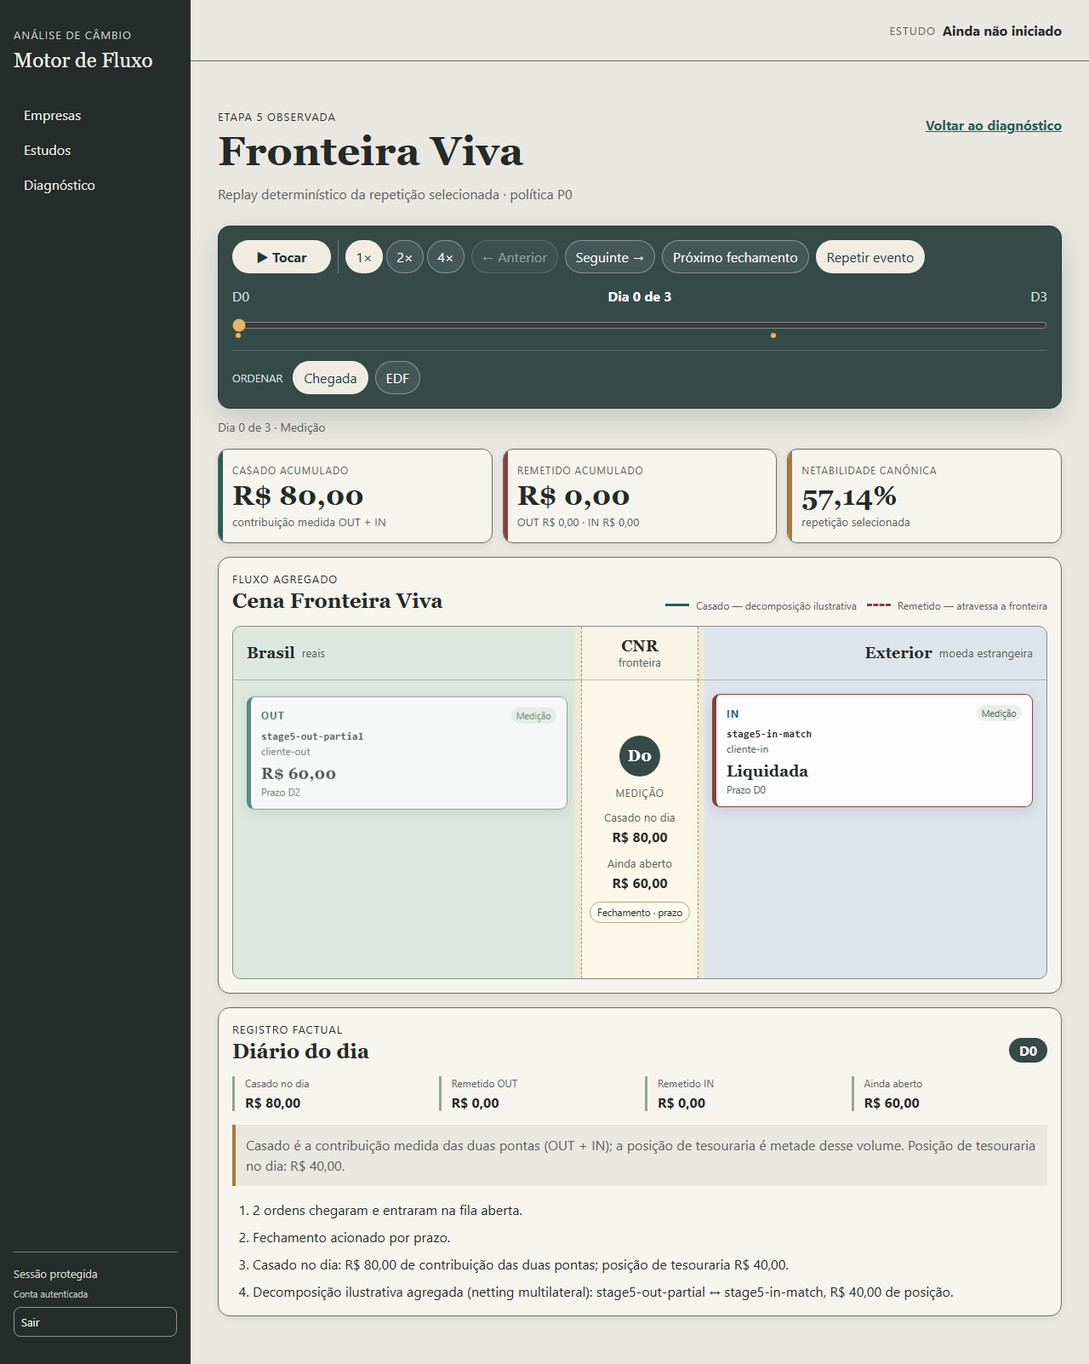
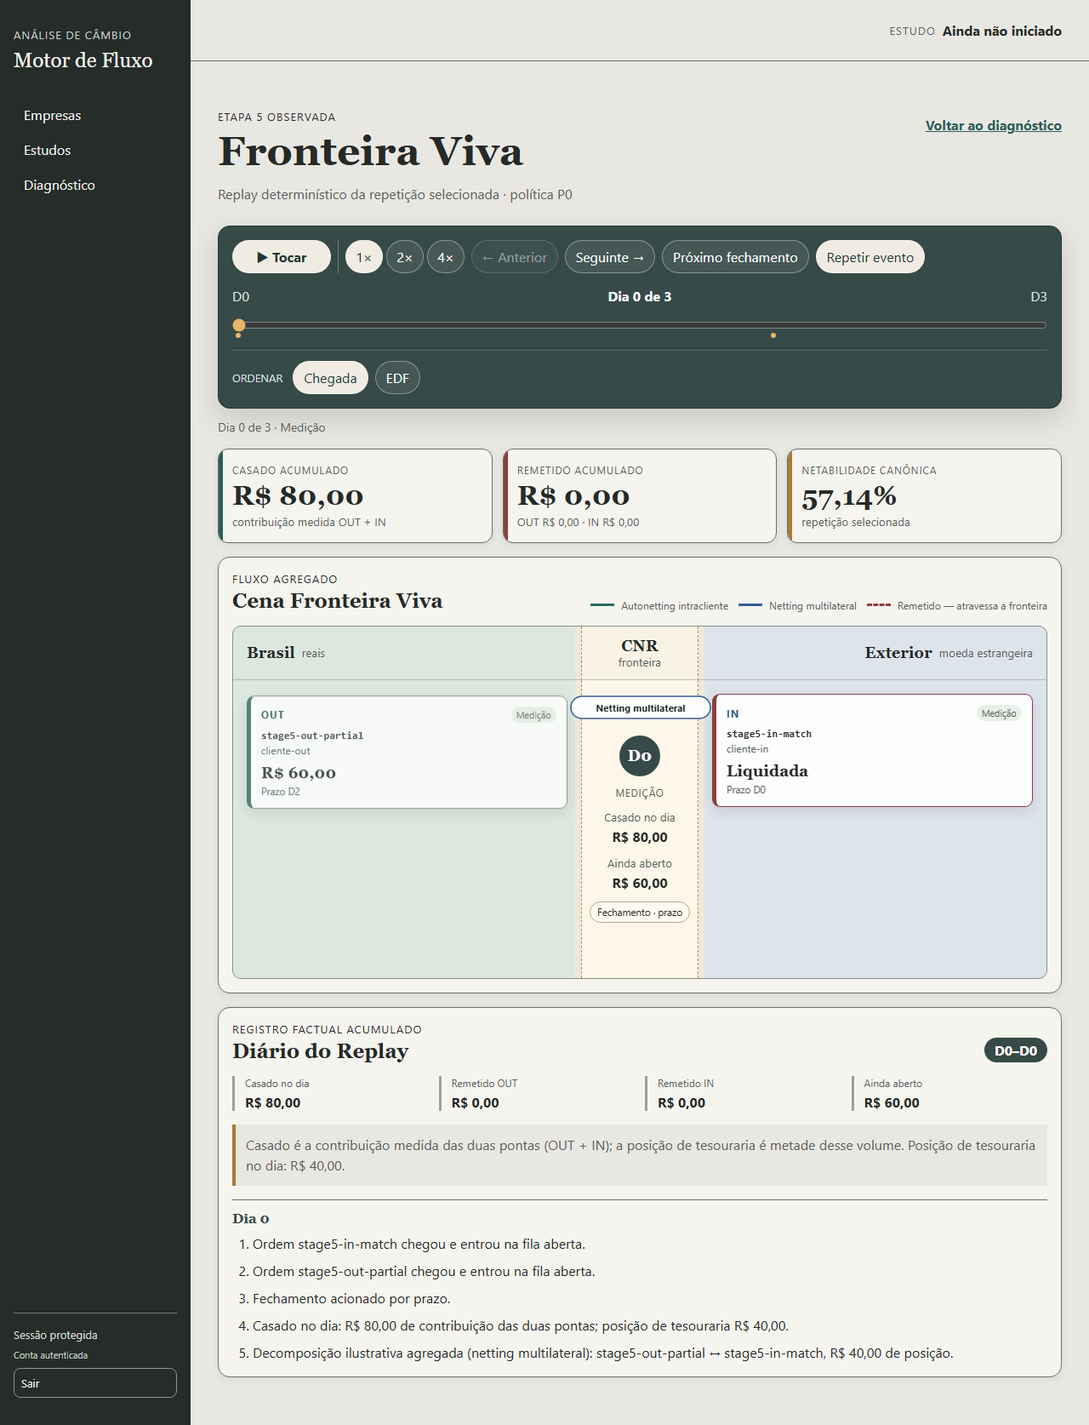
fix: melhora leitura e ritmo do replay (MOT-89)

diff --git a/web/src/styles/global.css b/web/src/styles/global.css
@@ -231,6 +231,8 @@ a { color: inherit; }
 .replay-legend { display: flex; flex-wrap: wrap; gap: var(--space-3); justify-content: flex-end; }
 .replay-legend span { align-items: center; color: var(--muted); display: flex; font-size: 0.75rem; gap: var(--space-2); }
 .legend-line { border-top: 3px solid var(--accent); display: inline-block; width: 28px; }
+.legend-line--intra { border-color: #267064; }
+.legend-line--inter { border-color: #365f91; }
 .legend-line--remitted { border-color: #8b403c; border-top-style: dashed; }
 .replay-stage { background: linear-gradient(90deg, #dce8df 0 42%, #efe8d9 42% 58%, #dee4eb 58% 100%); border: 1px solid #85908b; border-radius: 10px; display: grid; gap: 0; grid-template-areas: 'brasil cnr exterior' 'out frontier in'; grid-template-columns: minmax(0, 1fr) minmax(120px, 0.34fr) minmax(0, 1fr); grid-template-rows: auto minmax(350px, auto); margin-top: var(--space-4); min-width: 0; overflow: hidden; position: relative; }
 .replay-territory { align-items: center; border-bottom: 1px solid rgb(37 42 40 / 25%); display: flex; gap: var(--space-2); min-width: 0; padding: var(--space-3) var(--space-4); }
@@ -264,18 +266,29 @@ a { color: inherit; }
 .replay-stage--animating .replay-order:not(.replay-order--departing) { animation: replay-card-arrive 320ms ease both; }
 .replay-order--departing { animation: replay-card-depart 900ms ease 350ms both; border-color: #8b403c; }
 .replay-connections { height: 100%; inset: 0; overflow: visible; pointer-events: none; position: absolute; width: 100%; z-index: 4; }
+.replay-connection-labels { height: 100%; inset: 0; overflow: visible; pointer-events: none; position: absolute; width: 100%; z-index: 6; }
 .replay-connection { fill: none; stroke-linecap: round; stroke-width: 4; }
-.replay-connection--matched { animation: replay-line-draw 750ms ease 260ms both; marker-end: url(#replay-arrow-matched); stroke: #267064; stroke-dasharray: 12 7; }
+.replay-connection--matched { animation: replay-line-draw 750ms ease 260ms both; stroke-dasharray: 12 7; }
+.replay-connection--intra-client { stroke: #267064; }
+.replay-connection--inter-client { stroke: #365f91; }
 .replay-connection--remitted { animation: replay-line-draw 750ms ease 600ms both; marker-end: url(#replay-arrow-remitted); stroke: #8b403c; stroke-dasharray: 8 7; }
-.replay-connections #replay-arrow-matched path { fill: #267064; }
+.replay-connections #replay-arrow-intra path { fill: #267064; }
+.replay-connections #replay-arrow-inter path { fill: #365f91; }
 .replay-connections #replay-arrow-remitted path { fill: #8b403c; }
+.replay-connection-label rect { fill: rgb(255 255 255 / 94%); stroke-width: 1.5; }
+.replay-connection-label text { fill: #1d2927; font-size: 11px; font-weight: 750; letter-spacing: 0.01em; }
+.replay-connection-label--intra rect { stroke: #267064; }
+.replay-connection-label--inter rect { stroke: #365f91; }
 .replay-journal__heading > span { background: #364a48; border-radius: 999px; color: white; font-weight: 700; padding: var(--space-1) var(--space-3); }
 .replay-day-values { display: grid; gap: var(--space-3); grid-template-columns: repeat(4, minmax(0, 1fr)); margin: var(--space-4) 0 0; }
 .replay-day-values > div { border-left: 3px solid #97a29d; padding-left: var(--space-3); }
 .replay-day-values dt { color: var(--muted); font-size: 0.75rem; }
 .replay-day-values dd { font-variant-numeric: tabular-nums; font-weight: 750; margin: var(--space-1) 0 0; overflow-wrap: anywhere; }
 .replay-journal__definition { background: var(--canvas); border-left: 4px solid #aa7b34; color: var(--muted); line-height: 1.5; padding: var(--space-3); }
-.replay-journal ol { display: grid; gap: var(--space-2); line-height: 1.5; margin-bottom: 0; padding-left: var(--space-6); }
+.replay-journal__history { display: grid; gap: var(--space-4); }
+.replay-journal__day { border-top: 1px solid var(--border); padding-top: var(--space-3); }
+.replay-journal__day h3 { color: #364a48; font-family: var(--font-heading); font-size: 1rem; margin: 0 0 var(--space-2); }
+.replay-journal ol { display: grid; gap: var(--space-2); line-height: 1.5; margin: 0; padding-left: var(--space-6); }
 .replay-error { max-width: 760px; }
 .replay-error-actions { display: flex; flex-wrap: wrap; gap: var(--space-3); margin-top: var(--space-4); }
 @keyframes replay-card-arrive { from { opacity: 0; transform: translateY(12px); } to { opacity: 1; transform: none; } }

diff --git a/web/src/replay/components/ReplayConnections.tsx b/web/src/replay/components/ReplayConnections.tsx
@@ -3,7 +3,19 @@ import { useCallback, useLayoutEffect, useState, type RefObject } from 'react';
 import type { ReplayDocument } from '../domain';
 import { anchoredCurve, remittanceCurve, type AnchoredCurve, type Box } from '../geometry';
 
-type Path = Readonly<{ id: string; curve: AnchoredCurve; kind: 'MATCHED' | 'REMITTED'; direction?: 'OUT' | 'IN' }>;
+type MatchingOrigin = 'INTRA_CLIENTE' | 'INTER_CLIENTE';
+type Path = Readonly<{
+  id: string;
+  curve: AnchoredCurve;
+  kind: 'MATCHED' | 'REMITTED';
+  direction?: 'OUT' | 'IN';
+  matchingOrigin?: MatchingOrigin;
+}>;
+
+const originLabels: Record<MatchingOrigin, string> = {
+  INTRA_CLIENTE: 'Autonetting intracliente',
+  INTER_CLIENTE: 'Netting multilateral',
+};
 
 function box(rect: DOMRect): Box {
   return { left: rect.left, top: rect.top, width: rect.width, height: rect.height };
@@ -38,6 +50,7 @@ export function ReplayConnections({ stageRef, document, day, active, transitionK
         id: `matched-${index}-${segment.out_order_id}-${segment.in_order_id}`,
         curve: anchoredCurve(stageBox, out, incoming),
         kind: 'MATCHED',
+        matchingOrigin: segment.matching_origin,
       });
     }
     for (const event of replayDay.events) {
@@ -64,16 +77,41 @@ export function ReplayConnections({ stageRef, document, day, active, transitionK
   }, [measure, stageRef, transitionKey]);
 
   if (!active || paths.length === 0) return null;
-  return <svg className="replay-connections" aria-hidden="true" focusable="false">
+  return <>
+    <svg className="replay-connections" aria-hidden="true" focusable="false">
     <defs>
-      <marker id="replay-arrow-matched" markerWidth="8" markerHeight="8" refX="6" refY="4" orient="auto"><path d="M 0 0 L 8 4 L 0 8 z" /></marker>
+      <marker id="replay-arrow-intra" markerWidth="8" markerHeight="8" refX="6" refY="4" orient="auto"><path d="M 0 0 L 8 4 L 0 8 z" /></marker>
+      <marker id="replay-arrow-inter" markerWidth="8" markerHeight="8" refX="6" refY="4" orient="auto"><path d="M 0 0 L 8 4 L 0 8 z" /></marker>
       <marker id="replay-arrow-remitted" markerWidth="8" markerHeight="8" refX="6" refY="4" orient="auto"><path d="M 0 0 L 8 4 L 0 8 z" /></marker>
     </defs>
-    {paths.map((path) => <path
-      key={`${transitionKey}-${path.id}`}
-      d={path.curve.path}
-      className={`replay-connection replay-connection--${path.kind.toLowerCase()}${path.direction === undefined ? '' : ` replay-connection--${path.direction.toLowerCase()}`}`}
-      markerEnd={`url(#replay-arrow-${path.kind.toLowerCase()})`}
-    />)}
-  </svg>;
+    {paths.map((path) => {
+      const originClass = path.matchingOrigin === 'INTRA_CLIENTE'
+        ? ' replay-connection--intra-client'
+        : path.matchingOrigin === 'INTER_CLIENTE' ? ' replay-connection--inter-client' : '';
+      const marker = path.kind === 'REMITTED'
+        ? 'replay-arrow-remitted'
+        : path.matchingOrigin === 'INTRA_CLIENTE' ? 'replay-arrow-intra' : 'replay-arrow-inter';
+      return <path
+        key={`${transitionKey}-${path.id}`}
+        d={path.curve.path}
+        className={`replay-connection replay-connection--${path.kind.toLowerCase()}${originClass}${path.direction === undefined ? '' : ` replay-connection--${path.direction.toLowerCase()}`}`}
+        markerEnd={`url(#${marker})`}
+      />;
+    })}
+    </svg>
+    <svg className="replay-connection-labels" aria-hidden="true" focusable="false">
+    {paths.map((path) => {
+      if (path.matchingOrigin === undefined) return null;
+      const midpoint = {
+        x: Math.round((path.curve.start.x + path.curve.end.x) / 2),
+        // Mantém a identificação ligada à seta, mas fora do medalhão central da CNR.
+        y: Math.round((path.curve.start.y + path.curve.end.y) / 2) - 58,
+      };
+      return <g key={`${transitionKey}-label-${path.id}`} className={`replay-connection-label replay-connection-label--${path.matchingOrigin === 'INTRA_CLIENTE' ? 'intra' : 'inter'}`} transform={`translate(${midpoint.x} ${midpoint.y})`}>
+        <rect x="-82" y="-13" width="164" height="26" rx="13" />
+        <text textAnchor="middle" dominantBaseline="central">{originLabels[path.matchingOrigin]}</text>
+      </g>;
+    })}
+    </svg>
+  </>;
 }

diff --git a/web/src/replay/components/ReplayStage.test.tsx b/web/src/replay/components/ReplayStage.test.tsx
@@ -30,16 +30,19 @@ describe('cena Fronteira Viva', () => {
     expect(screen.queryByRole('article', { name: /IN in-1/i })).not.toBeInTheDocument();
   });
 
-  it('mantém o diário reconciliado com os valores visíveis do dia', () => {
-    const document = replayDocumentFixture();
-    render(<ReplayJournal document={document} day={0} />);
+  it('mantém diário cumulativo por dia sem registrar dias futuros ou vazios', () => {
+    const document = replayDocumentWithBothRemittancesFixture();
+    render(<ReplayJournal document={document} day={2} />);
 
-    expect(screen.getByRole('heading', { name: 'Diário do dia' })).toBeInTheDocument();
-    expect(screen.getByText(/Casado no dia.*R\$ 80,00/i)).toBeInTheDocument();
-    expect(screen.getAllByText(/posição de tesouraria.*R\$ 40,00/i)).toHaveLength(2);
+    expect(screen.getByRole('heading', { name: 'Diário do Replay' })).toBeInTheDocument();
+    expect(screen.getByRole('heading', { name: 'Dia 0' })).toBeInTheDocument();
+    expect(screen.getByRole('heading', { name: 'Dia 2' })).toBeInTheDocument();
+    expect(screen.queryByRole('heading', { name: 'Dia 1' })).not.toBeInTheDocument();
+    expect(screen.getByText(/Ordem out-1 chegou/i)).toBeInTheDocument();
+    expect(screen.getByText(/ordem in-2.*remetida IN/i)).toBeInTheDocument();
   });
 
-  it('retira cartão liquidado e camada de conexões no mesmo fim de evento', () => {
+  it('mantém cartões liquidados e conexões visíveis por 2,6 segundos', () => {
     vi.useFakeTimers();
     const document = replayDocumentWithBothRemittancesFixture();
     const { container } = render(<ReplayStage
@@ -54,7 +57,33 @@ describe('cena Fronteira Viva', () => {
     expect(screen.getByRole('article', { name: /IN in-2/i })).toHaveTextContent('Liquidada');
     expect(container.querySelector('.replay-connections')).toBeInTheDocument();
     act(() => vi.advanceTimersByTime(1_300));
+    expect(screen.getByRole('article', { name: /OUT out-1/i })).toBeInTheDocument();
+    expect(container.querySelector('.replay-connections')).toBeInTheDocument();
+    act(() => vi.advanceTimersByTime(1_300));
     expect(screen.queryByRole('article', { name: /OUT out-1/i })).not.toBeInTheDocument();
     expect(container.querySelector('.replay-connections')).not.toBeInTheDocument();
+  });
+
+  it('rotula cada seta casada como autonetting ou netting multilateral', () => {
+    const document = replayDocumentFixture();
+    document.days[0]!.closing!.flow_segments = [
+      {
+        ...document.days[0]!.closing!.flow_segments[0]!,
+        value_brl: '10', matching_origin: 'INTRA_CLIENTE',
+      },
+      document.days[0]!.closing!.flow_segments[0]!,
+    ];
+    const { container } = render(<ReplayStage
+      document={document}
+      state={replayStateAt(document, 0)}
+      sort="ARRIVAL"
+      transitionMode="ANIMATE"
+      transitionKey={1}
+    />);
+
+    const labels = [...container.querySelectorAll('.replay-connection-label')].map((item) => item.textContent);
+    expect(labels).toEqual(['Autonetting intracliente', 'Netting multilateral']);
+    expect(container.querySelector('.replay-connection--intra-client')).toBeInTheDocument();
+    expect(container.querySelector('.replay-connection--inter-client')).toBeInTheDocument();
   });
 });

diff --git a/web/src/replay/presentation.ts b/web/src/replay/presentation.ts
@@ -17,6 +17,11 @@ export type ReplayDayPresentation = Readonly<{
   journal: readonly string[];
 }>;
 
+export type ReplayJournalDay = Readonly<{
+  day: number;
+  entries: readonly string[];
+}>;
+
 const triggerLabels = { WINDOW: 'janela', DEADLINE: 'prazo', HORIZON_END: 'fim do horizonte' } as const;
 
 function amount(value: Decimal): string {
@@ -34,7 +39,7 @@ export function presentReplayDay(document: ReplayDocument, day: number): ReplayD
   const openBrl = amount(new Decimal(replayDay.end_state.open_out_brl).plus(replayDay.end_state.open_in_brl));
   const journal: string[] = [];
   const arrivals = replayDay.events.filter((event) => event.kind === 'ORDER_ARRIVED');
-  if (arrivals.length > 0) journal.push(`${arrivals.length} ${arrivals.length === 1 ? 'ordem chegou e entrou' : 'ordens chegaram e entraram'} na fila aberta.`);
+  for (const arrival of arrivals) journal.push(`Ordem ${arrival.order_id} chegou e entrou na fila aberta.`);
   if (closing !== null) {
     journal.push(`Fechamento acionado por ${closing.triggers.map((trigger) => triggerLabels[trigger]).join(' + ')}.`);
     if (!new Decimal(matchedContributionBrl).isZero()) {
@@ -44,8 +49,11 @@ export function presentReplayDay(document: ReplayDocument, day: number): ReplayD
         journal.push(`Decomposição ilustrativa agregada (${phase}): ${segment.out_order_id} ↔ ${segment.in_order_id}, ${formatMoney(segment.value_brl)} de posição.`);
       }
     }
-    if (!new Decimal(remittedOutBrl).isZero()) journal.push(`Remessa OUT no dia: ${formatMoney(remittedOutBrl)} atravessou a fronteira para o Exterior.`);
-    if (!new Decimal(remittedInBrl).isZero()) journal.push(`Remessa IN no dia: ${formatMoney(remittedInBrl)} atravessou a fronteira para o Brasil.`);
+    for (const event of replayDay.events) {
+      if (event.kind !== 'ALLOCATION' || event.allocation_type !== 'REMETIDO') continue;
+      const destination = event.direction === 'OUT' ? 'Exterior' : 'Brasil';
+      journal.push(`Ordem ${event.order_id} remetida ${event.direction} — remessa ${event.direction} de ${formatMoney(event.value_brl)} atravessou a fronteira para o ${destination}.`);
+    }
   }
   if (journal.length === 0) journal.push('Dia sem chegada, fechamento, casamento ou remessa. Saldos permanecem inalterados.');
   return Object.freeze({
@@ -61,4 +69,17 @@ export function presentReplayDay(document: ReplayDocument, day: number): ReplayD
     explanation: 'Casado é a contribuição medida das duas pontas (OUT + IN); a posição de tesouraria é metade desse volume.',
     journal: Object.freeze(journal),
   });
+}
+
+export function presentReplayHistory(document: ReplayDocument, selectedDay: number): readonly ReplayJournalDay[] {
+  if (selectedDay < 0 || selectedDay > document.period.settlement_end_day) {
+    throw new RangeError(`Dia ${selectedDay} fora do Replay.`);
+  }
+  const history: ReplayJournalDay[] = [];
+  for (let day = 0; day <= selectedDay; day += 1) {
+    const view = presentReplayDay(document, day);
+    if (!view.hasOperationalEvent) continue;
+    history.push(Object.freeze({ day, entries: view.journal }));
+  }
+  return Object.freeze(history);
 }

diff --git a/web/src/replay/components/ReplayJournal.tsx b/web/src/replay/components/ReplayJournal.tsx
@@ -1,13 +1,14 @@
 import { formatMoney } from '../../presentation/format';
 import type { ReplayDocument } from '../domain';
-import { presentReplayDay } from '../presentation';
+import { presentReplayDay, presentReplayHistory } from '../presentation';
 
 export function ReplayJournal({ document, day }: Readonly<{ document: ReplayDocument; day: number }>) {
   const view = presentReplayDay(document, day);
+  const history = presentReplayHistory(document, day);
   return <section className="replay-journal" aria-labelledby="replay-journal-heading">
     <div className="replay-journal__heading">
-      <div><p className="eyebrow">Registro factual</p><h2 id="replay-journal-heading">Diário do dia</h2></div>
-      <span>D{day}</span>
+      <div><p className="eyebrow">Registro factual acumulado</p><h2 id="replay-journal-heading">Diário do Replay</h2></div>
+      <span>D0–D{day}</span>
     </div>
     <dl className="replay-day-values">
       <div><dt>Casado no dia</dt><dd>{formatMoney(view.matchedContributionBrl)}</dd></div>
@@ -16,6 +17,11 @@ export function ReplayJournal({ document, day }: Readonly<{ document: ReplayDocu
       <div><dt>Ainda aberto</dt><dd>{formatMoney(view.openBrl)}</dd></div>
     </dl>
     <p className="replay-journal__definition">{view.explanation} Posição de tesouraria no dia: {formatMoney(view.matchedPositionBrl)}.</p>
-    <ol>{view.journal.map((entry, index) => <li key={`${day}-${index}`}>{entry}</li>)}</ol>
+    <div className="replay-journal__history">
+      {history.map((group) => <section key={group.day} className="replay-journal__day" aria-labelledby={`replay-journal-day-${group.day}`}>
+        <h3 id={`replay-journal-day-${group.day}`}>Dia {group.day}</h3>
+        <ol>{group.entries.map((entry, index) => <li key={`${group.day}-${index}`}>{entry}</li>)}</ol>
+      </section>)}
+    </div>
   </section>;
 }

diff --git a/web/e2e/stage5-replay.spec.ts b/web/e2e/stage5-replay.spec.ts
@@ -85,6 +85,9 @@ test('Replay observado reconstrói controles, parcial, gatilhos, vazio, OUT e re
   await expect(dayValue(page, 'Ainda aberto')).not.toContainText('R$ 0,00');
   await page.getByRole('button', { name: 'Repetir evento' }).click();
   await expect.poll(() => page.locator('.replay-connection').count()).toBeGreaterThan(0);
+  await expect(page.locator('.replay-connection-label')).toContainText(['Netting multilateral']);
+  await expect(page.getByLabel('Legenda')).toContainText('Autonetting intracliente');
+  await expect(page.getByLabel('Legenda')).toContainText('Netting multilateral');
   expect(await page.locator('.replay-connection').evaluateAll((paths) => paths.every((path) => {
     const value = path.getAttribute('d') ?? '';
     return value.startsWith('M ') && !value.includes('NaN');
@@ -105,7 +108,9 @@ test('Replay observado reconstrói controles, parcial, gatilhos, vazio, OUT e re
   await page.screenshot({ path: evidencePath('mot89-observado-remessa-out.png'), fullPage: true });
 
   await selectDay(page, emptyDay);
-  await expect(page.getByText(/Dia sem chegada, fechamento, casamento ou remessa/)).toBeVisible();
+  await expect(page.getByRole('heading', { name: `Dia ${arrivalDay}` })).toBeVisible();
+  await expect(page.getByRole('heading', { name: `Dia ${emptyDay}` })).toHaveCount(0);
+  await expect(page.getByText(new RegExp(`Ordem .* chegou e entrou na fila aberta`)).first()).toBeVisible();
   await expect(page.locator('.replay-stage--animating')).toHaveCount(0);
   await page.getByRole('button', { name: 'Próximo fechamento' }).click();
   await expect(page.locator('.replay-frontier__status')).not.toContainText('Sem fechamento');

diff --git a/web/src/replay/presentation.test.ts b/web/src/replay/presentation.test.ts
@@ -1,6 +1,6 @@
 import { describe, expect, it } from 'vitest';
 
-import { presentReplayDay } from './presentation';
+import { presentReplayDay, presentReplayHistory } from './presentation';
 import { replayDocumentFixture, replayDocumentWithBothRemittancesFixture } from './testFixtures';
 
 describe('apresentação factual do Replay', () => {
@@ -29,5 +29,16 @@ describe('apresentação factual do Replay', () => {
     expect(view.openBrl).toBe('0');
     expect(view.journal.join(' ')).toMatch(/remessa OUT.*60/i);
     expect(view.journal.join(' ')).toMatch(/remessa IN.*20/i);
+  });
+
+  it('constrói diário cumulativo somente até o dia selecionado e identifica cada operação', () => {
+    const history = presentReplayHistory(replayDocumentWithBothRemittancesFixture(), 2);
+
+    expect(history.map((entry) => entry.day)).toEqual([0, 2]);
+    expect(history[0]?.entries).toContain('Ordem out-1 chegou e entrou na fila aberta.');
+    expect(history[0]?.entries.join(' ')).toMatch(/netting multilateral.*out-1.*in-1/i);
+    expect(history[1]?.entries.join(' ')).toMatch(/ordem out-1.*remetida OUT.*R\$\s*60,00/i);
+    expect(history[1]?.entries.join(' ')).toMatch(/ordem in-2.*remetida IN.*R\$\s*20,00/i);
+    expect(history.some((entry) => entry.day > 2)).toBe(false);
   });
 });

diff --git a/web/src/replay/components/ReplayStage.tsx b/web/src/replay/components/ReplayStage.tsx
@@ -63,7 +63,7 @@ export function ReplayStage({ document, state, sort, transitionMode, transitionK
     const timeout = globalThis.setTimeout(() => {
       setDeparting([]);
       setEventActive(false);
-    }, 1_300);
+    }, 2_600);
     return () => globalThis.clearTimeout(timeout);
   }, [animate, document, state.day, transitionKey]);
 
@@ -79,7 +79,8 @@ export function ReplayStage({ document, state, sort, transitionMode, transitionK
     <div className="replay-stage-heading">
       <div><p className="eyebrow">Fluxo agregado</p><h2 id="replay-stage-heading">Cena Fronteira Viva</h2></div>
       <div className="replay-legend" aria-label="Legenda">
-        <span><i className="legend-line legend-line--matched" />Casado — decomposição ilustrativa</span>
+        <span><i className="legend-line legend-line--intra" />Autonetting intracliente</span>
+        <span><i className="legend-line legend-line--inter" />Netting multilateral</span>
         <span><i className="legend-line legend-line--remitted" />Remetido — atravessa a fronteira</span>
       </div>
     </div>

diff --git a/web/src/app/providers.test.tsx b/web/src/app/providers.test.tsx
@@ -9,7 +9,7 @@ import { AuthProvider } from '../auth/AuthProvider';
 import type { AuthClient, AuthSession } from '../auth/types';
 import type { ApplicationRepository } from '../storage/applicationRepository';
 import type { StudyChannel } from '../study/studyController';
-import { ApplicationProviders, useStudyController } from './providers';
+import { ApplicationProviders, resolveStorageProjectRef, useStudyController } from './providers';
 
 const USER_A = '00000000-0000-4000-8000-000000000001';
 const USER_B = '00000000-0000-4000-8000-000000000002';
@@ -65,6 +65,10 @@ function Probe() {
 }
 
 describe('ApplicationProviders', () => {
+  it('mantém o namespace local no modo E2E mesmo com Supabase real configurado', () => {
+    expect(resolveStorageProjectRef('e2e', 'https://projeto-real.supabase.co')).toBe('local');
+  });
+
   it('mantém um controlador e troca seus recursos na sequência A → B → A', async () => {
     const auth = authClient();
     const repositories: Array<{ ownerSub: string; close: ReturnType<typeof vi.fn> }> = [];

diff --git a/web/src/app/providers.tsx b/web/src/app/providers.tsx
@@ -36,8 +36,8 @@ type ApplicationProvidersProps = Readonly<{
   channelFactory?: StudyChannelFactory;
 }>;
 
-function configuredProjectRef(): string {
-  const configuredUrl = import.meta.env.VITE_SUPABASE_URL;
+export function resolveStorageProjectRef(mode: string, configuredUrl: unknown): string {
+  if (mode === 'e2e') return 'local';
   if (typeof configuredUrl === 'string') {
     try {
       const firstHostPart = new URL(configuredUrl).hostname.split('.')[0];
@@ -47,6 +47,10 @@ function configuredProjectRef(): string {
     }
   }
   return 'local';
+}
+
+function configuredProjectRef(): string {
+  return resolveStorageProjectRef(import.meta.env.MODE, import.meta.env.VITE_SUPABASE_URL);
 }
 
 export function ApplicationProviders({

diff --git a/web/src/replay/useReplayPlayback.test.tsx b/web/src/replay/useReplayPlayback.test.tsx
@@ -10,6 +10,16 @@ describe('useReplayPlayback', () => {
   beforeEach(() => vi.useFakeTimers());
   afterEach(() => vi.useRealTimers());
 
+  it('mantém o dia por 3,2 segundos na velocidade padrão', () => {
+    const { result } = renderHook(() => useReplayPlayback(replayDocumentFixture()));
+
+    act(() => result.current.togglePlaying());
+    act(() => vi.advanceTimersByTime(3_199));
+    expect(result.current.day).toBe(0);
+    act(() => vi.advanceTimersByTime(1));
+    expect(result.current.day).toBe(1);
+  });
+
   it('toca, pausa e respeita velocidades 1×/2×/4×', () => {
     const replay = replayDocumentFixture();
     const { result } = renderHook(() => useReplayPlayback(replay, { intervalMs: 1_000 }));

diff --git a/web/src/replay/useReplayPlayback.ts b/web/src/replay/useReplayPlayback.ts
@@ -26,7 +26,7 @@ export type ReplayPlayback = Readonly<{
 
 export function useReplayPlayback(
   document: ReplayDocument,
-  { intervalMs = 1_600 }: Readonly<{ intervalMs?: number }> = {},
+  { intervalMs = 3_200 }: Readonly<{ intervalMs?: number }> = {},
 ): ReplayPlayback {
   const lastDay = document.period.settlement_end_day;
   const identity = `${document.diagnostic_execution_id}:${document.result_fingerprint}`;
